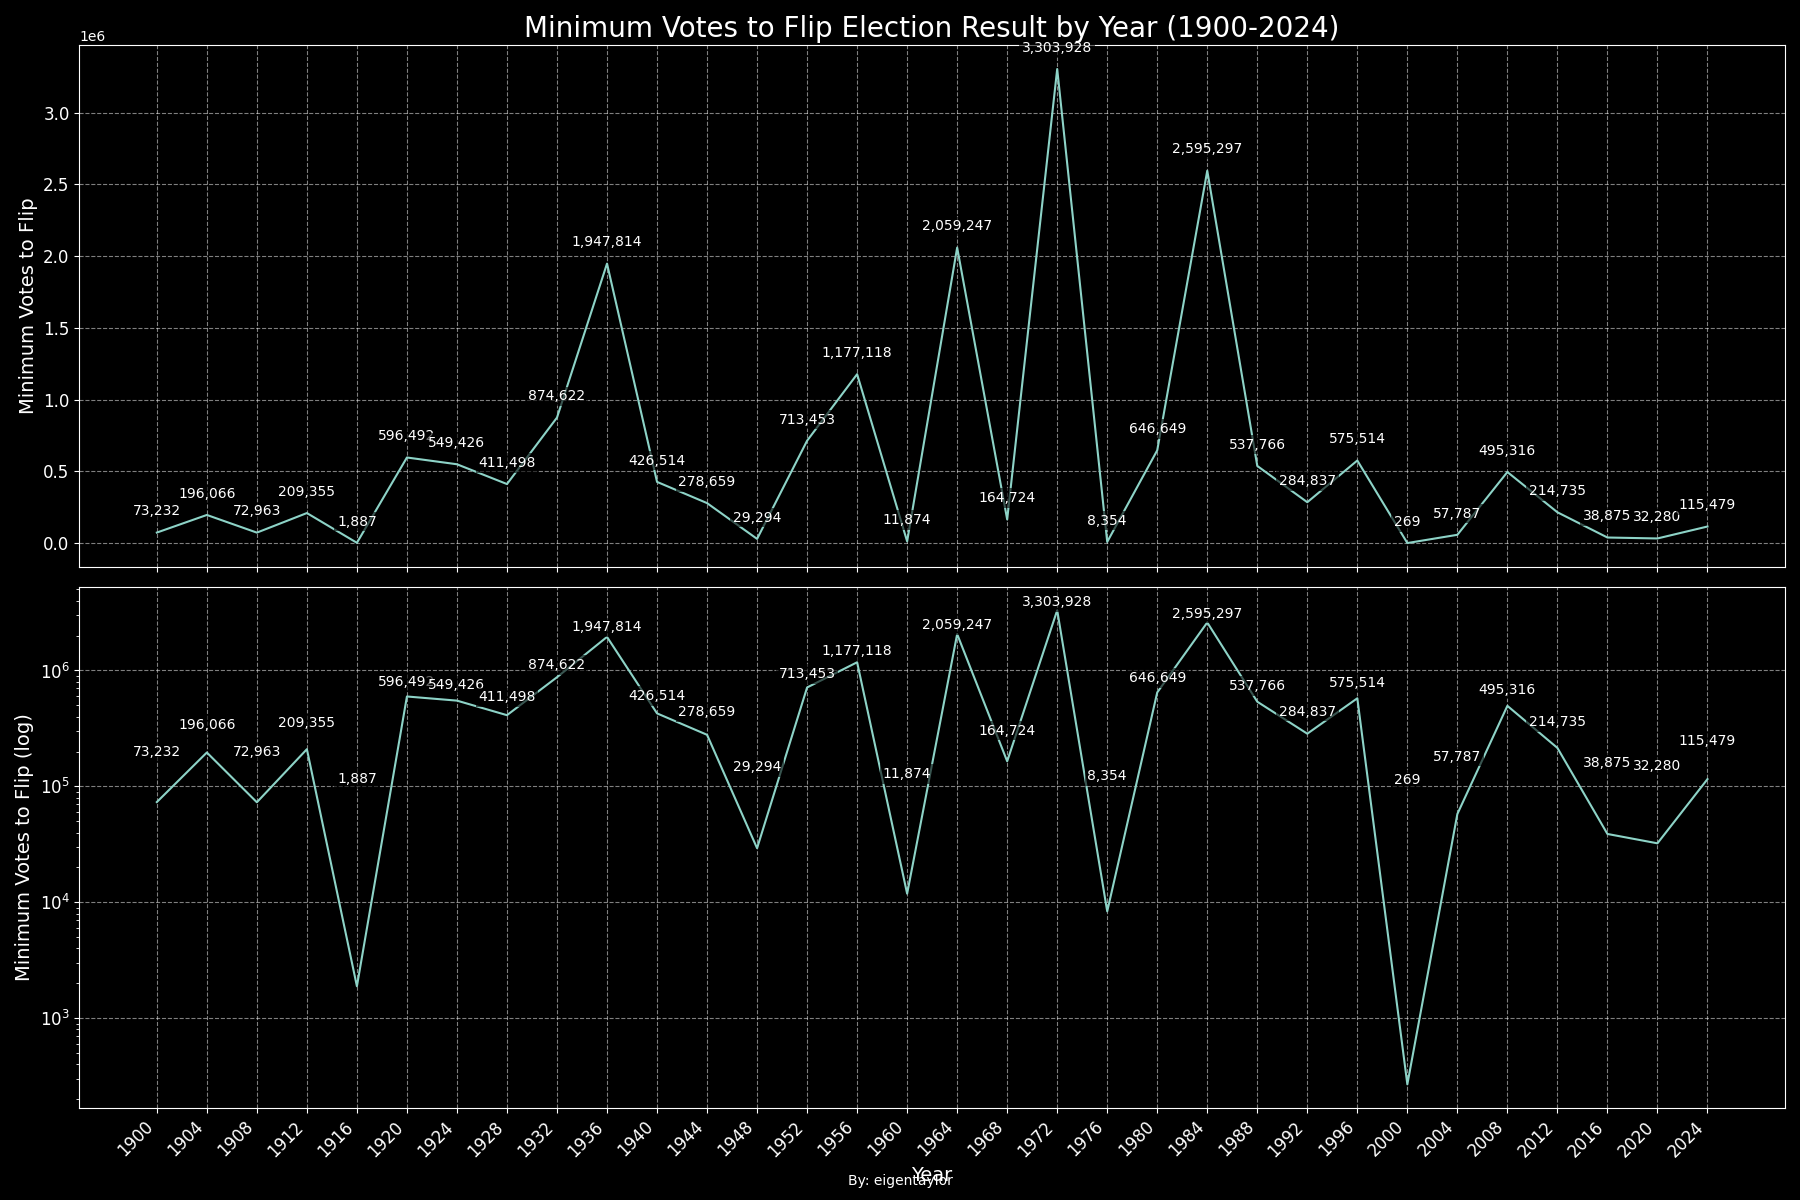
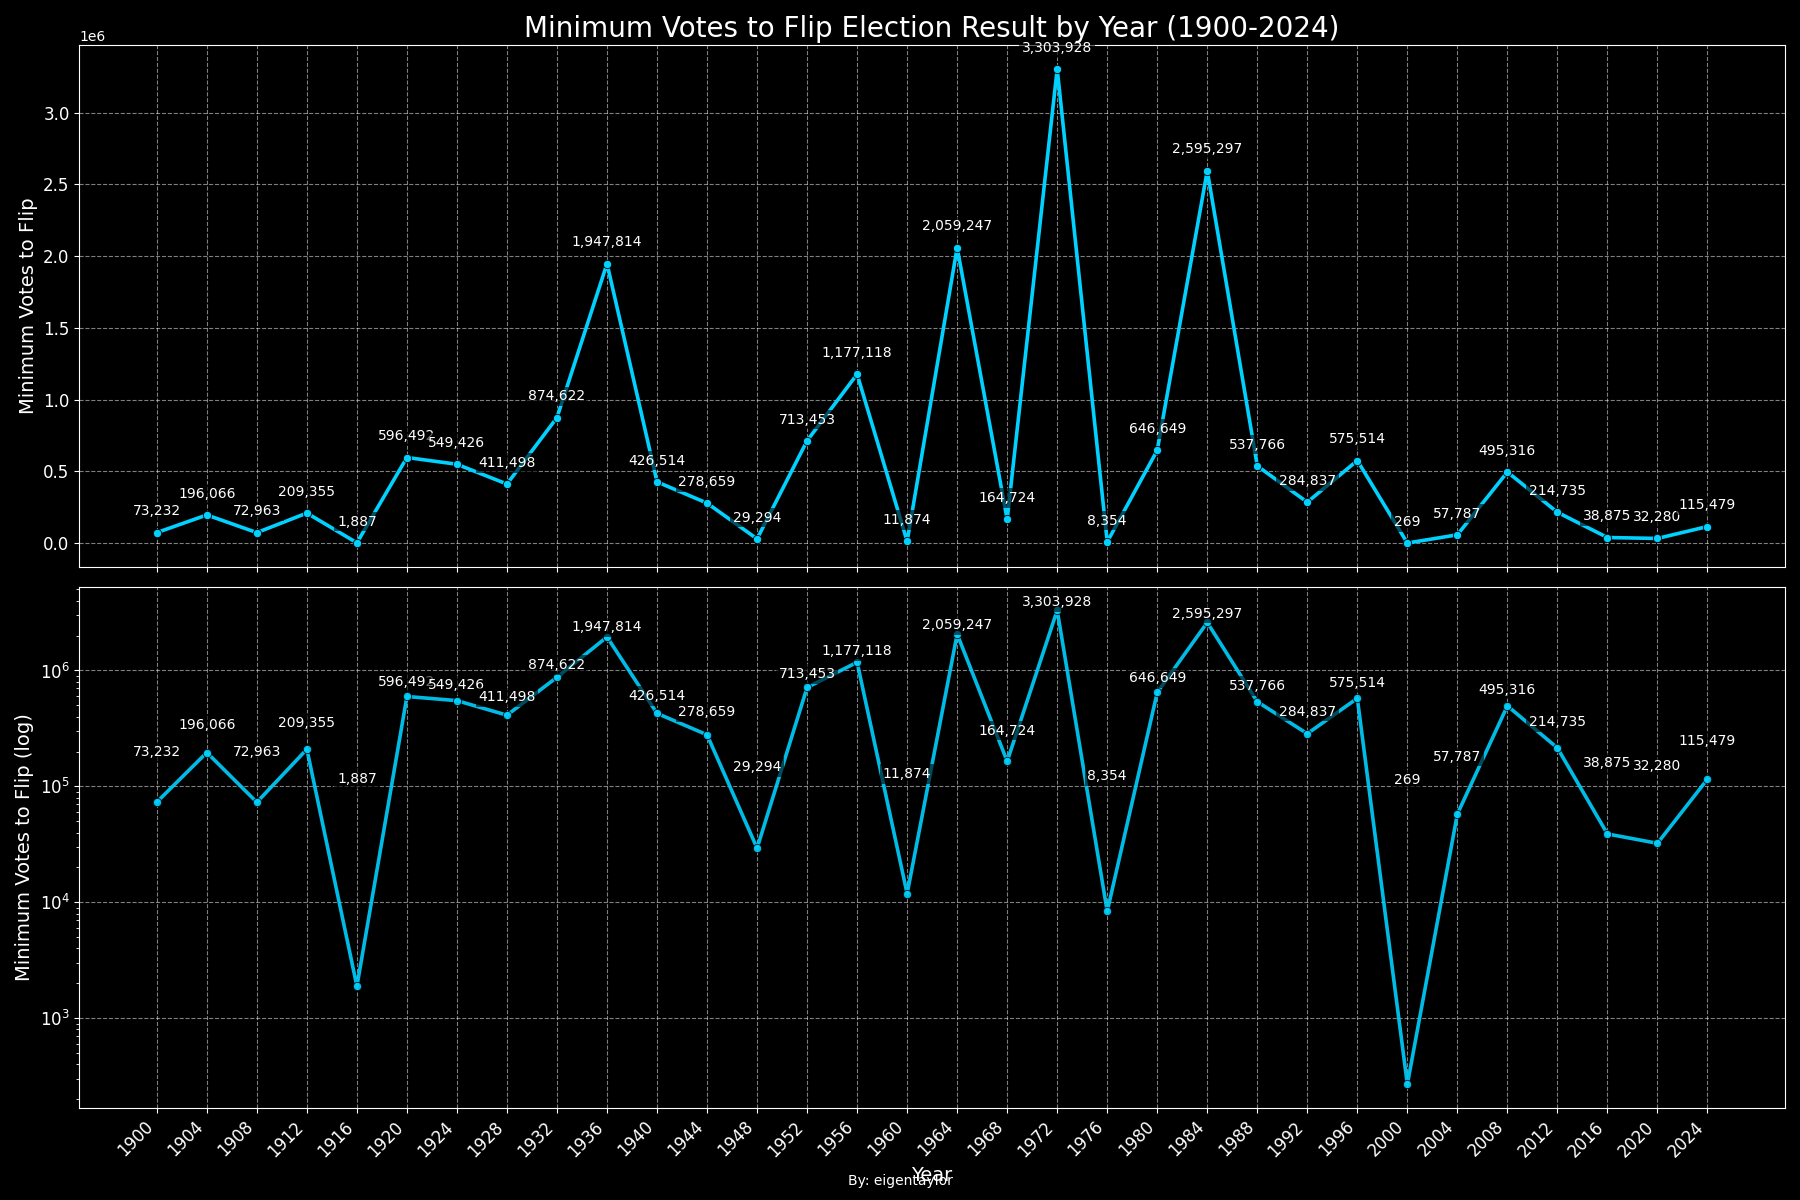
Enhance plot styling for dark backgrounds
Updated plotting.py to use vibrant colors and improved line and marker styles for better visibility on dark backgrounds. Adjusted plot and bar colors, line widths, and marker properties to create more visually appealing plots.

diff --git a/plotting.py b/plotting.py
@@ -21,13 +21,19 @@ def make_plot(flip_results_df, start_year, end_year, plot_count, key, ylabel, ti
     tick_fs = 12
     data_label_fs = 10
     data_bbox = dict(facecolor='black', alpha=0.6, pad=2, edgecolor='none')
+    # vibrant styling for dark background
+    line_color = '#00d1ff'  # bright cyan
+    line_width = 2.6
+    marker_style = dict(marker='o', markersize=6, markeredgecolor='black', markeredgewidth=0.6)
+    bar_color = '#ff6b6b'  # coral/salmon
+    bar_edge = dict(edgecolor='black', linewidth=0.6)
 
     if subplot_dual_log:
         # Create two-row subplot: top regular, bottom log/symlog
         fig, (ax_top, ax_bottom) = plt.subplots(2, 1, figsize=(18, 12), sharex=True)
 
         # Top (regular)
-        ax_top.plot(flip_results_df.index, data)
+        ax_top.plot(flip_results_df.index, data, color=line_color, linewidth=line_width, **marker_style)
         ax_top.set_ylabel(ylabel, fontsize=label_fs)
         ax_top.grid(True, linestyle='--', alpha=0.5)
         ax_top.set_title(title, fontsize=title_fs)
@@ -48,7 +54,7 @@ def make_plot(flip_results_df, start_year, end_year, plot_count, key, ylabel, ti
             ax_top.text(flip_results_df.index[i], y_text, formatted, ha='center', va='bottom' if y >= 0 else 'top', fontsize=data_label_fs, color='white', bbox=data_bbox)
 
         # Bottom (log or symlog depending on data)
-        ax_bottom.plot(flip_results_df.index, data)
+        ax_bottom.plot(flip_results_df.index, data, color=line_color, linewidth=line_width, alpha=0.9, **marker_style)
 
         # Choose log vs symlog if non-positive values exist
         if (data <= 0).any():
@@ -93,7 +99,7 @@ def make_plot(flip_results_df, start_year, end_year, plot_count, key, ylabel, ti
 
     # Default single-axes behavior
     plt.figure(figsize=(18, 8))
-    plt.plot(flip_results_df.index, data)
+    plt.plot(flip_results_df.index, data, color=line_color, linewidth=line_width, **marker_style)
     plt.xlabel('Year', fontsize=label_fs)
     plt.xticks(flip_results_df.index, rotation=45, ha='right', fontsize=tick_fs)
     plt.ylabel(ylabel, fontsize=label_fs)
